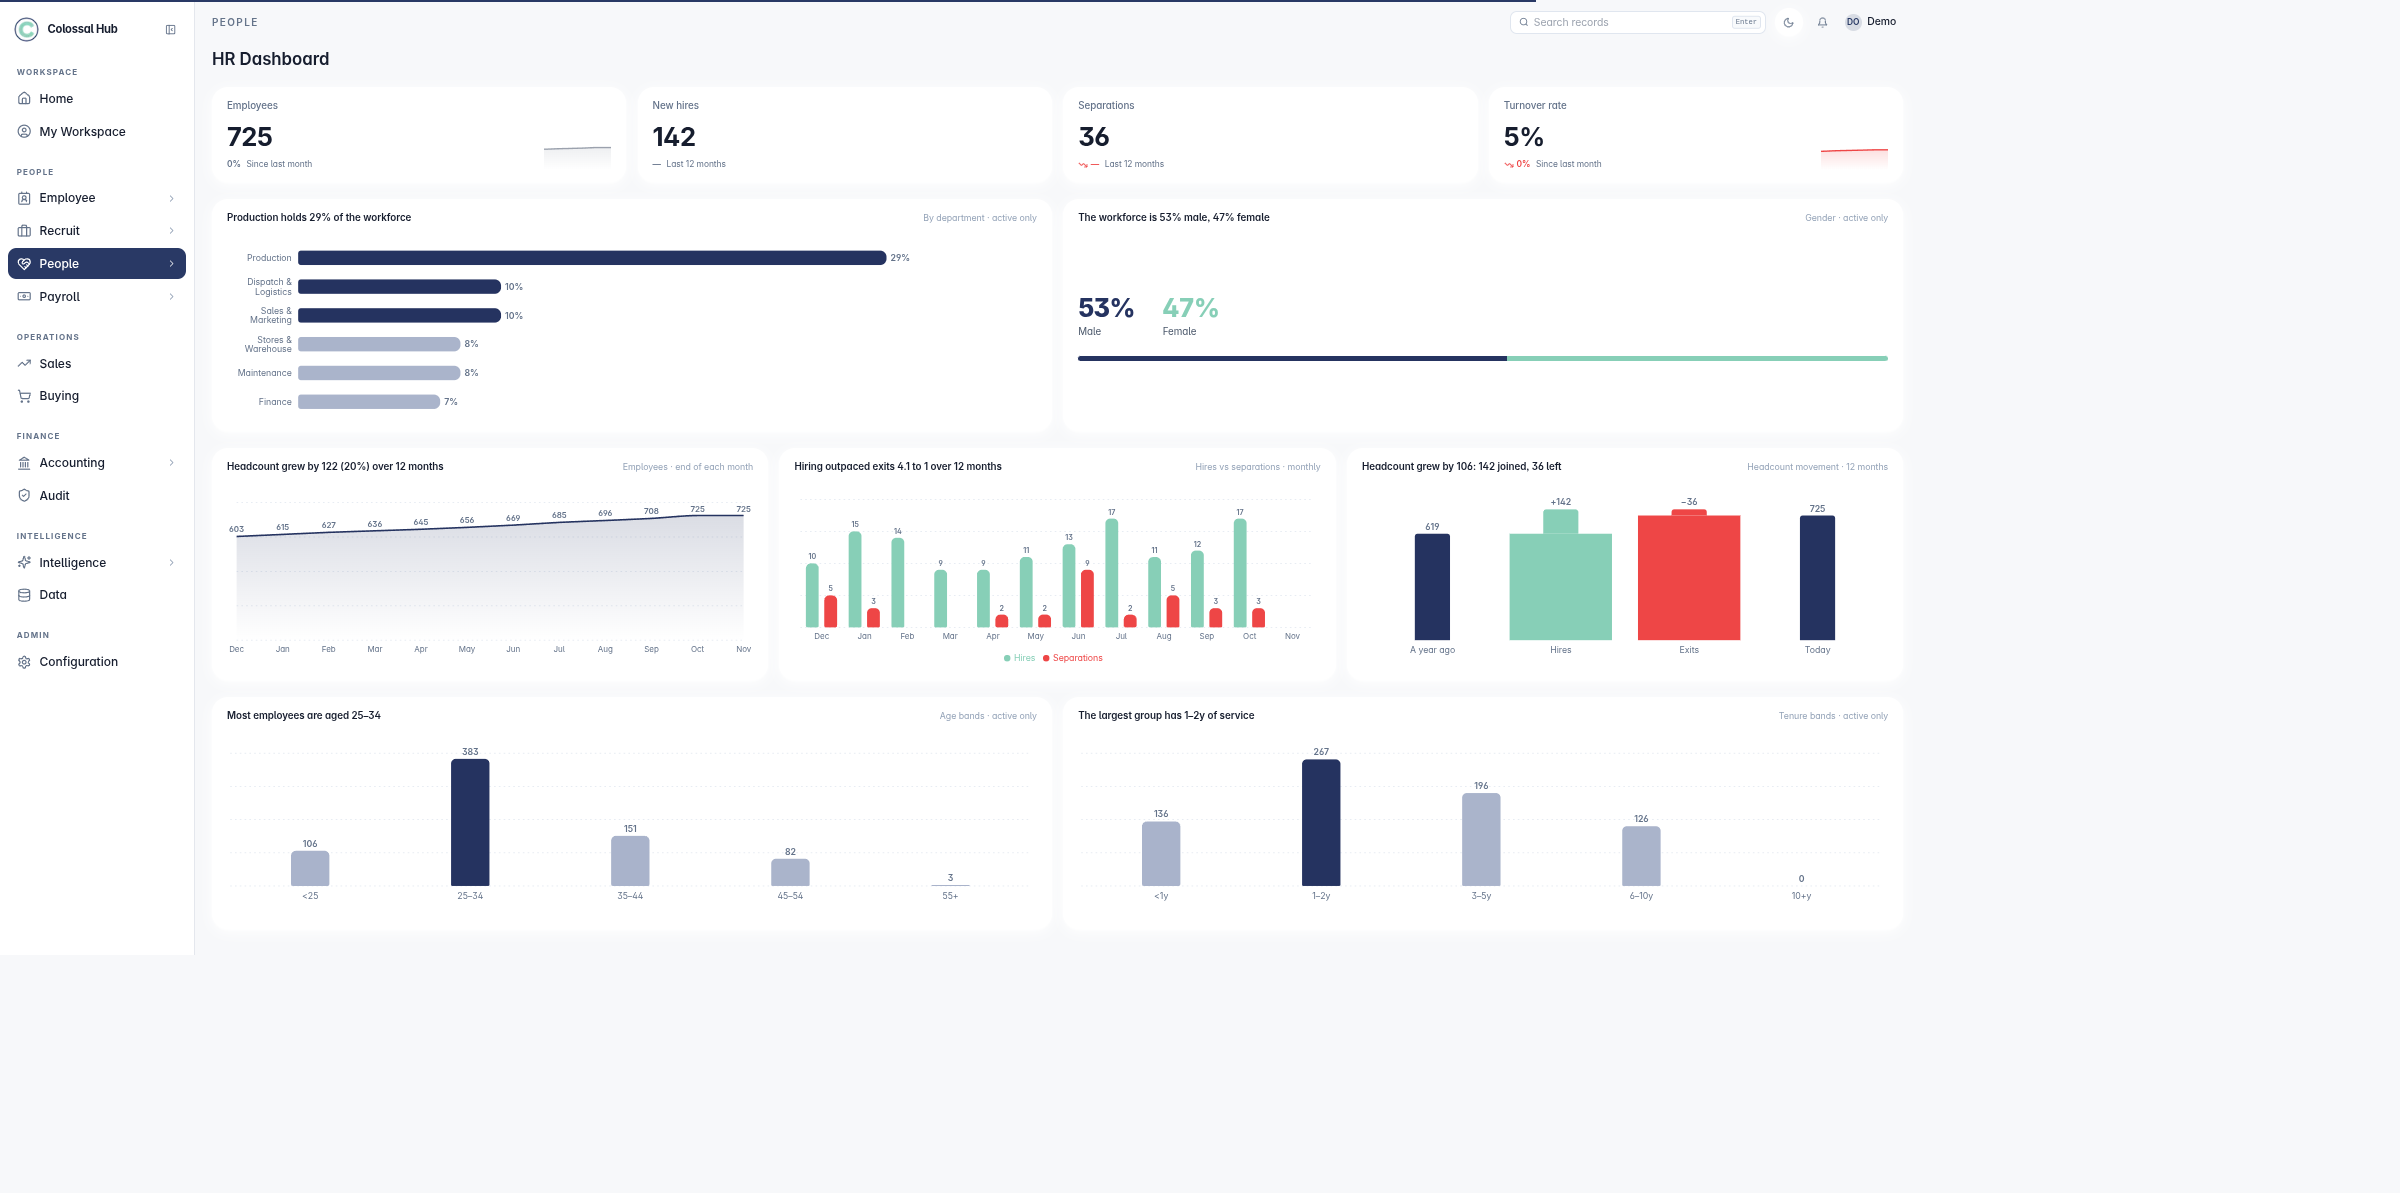
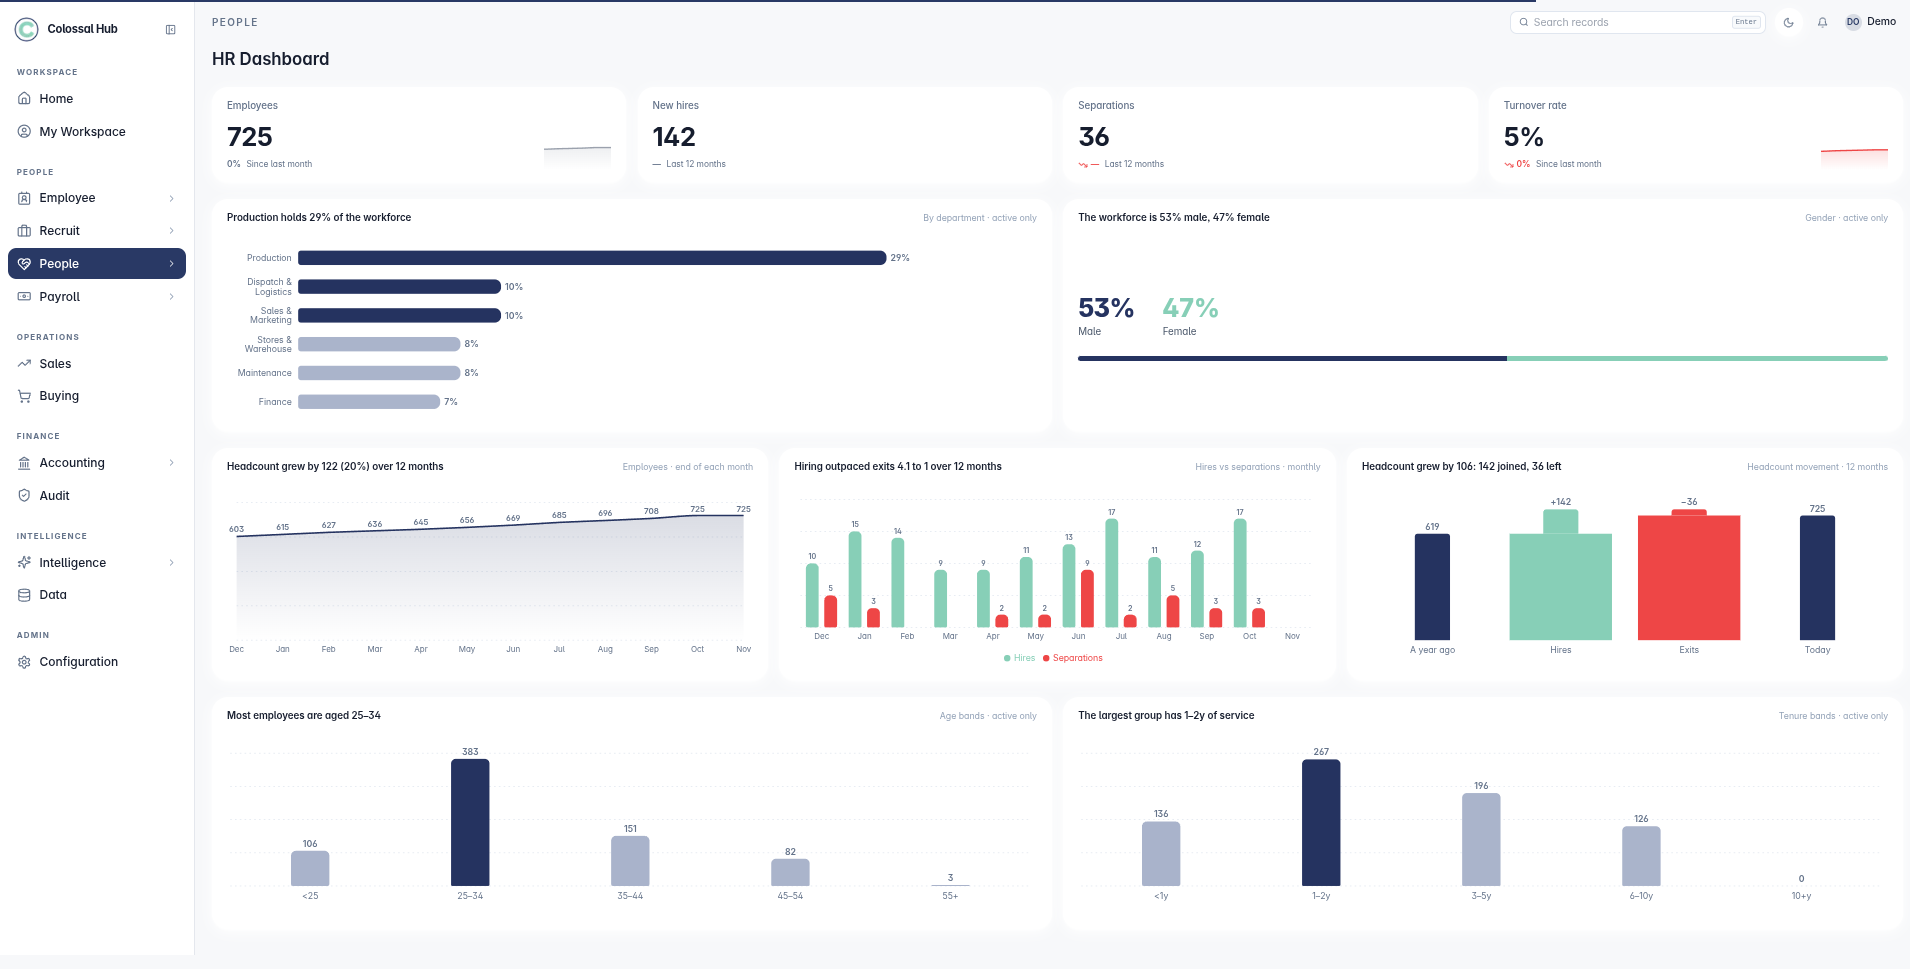
Frames fill edge to edge; slideshow always moves; real WhatsApp thread
The People and Payroll dashboard shots carried the app page's own
white margin, so the hero tile looked half-empty on those frames —
cropped to the content. The payslip shot is cropped to the document
itself. The slideshow now auto-advances for everyone (hover still
pauses, dots still jump). The drawn Intelligence conversation and the
hero's receipt thread are replaced by the real employees-by-grade
WhatsApp thread, chart included, with WhatsApp's own chrome trimmed
so the phone frame provides it.

diff --git a/src/app/page.tsx b/src/app/page.tsx
@@ -344,27 +344,13 @@ export default function Home() {
           <Reveal className="order-2 lg:order-1">
             <Phone
               subtitle="Intelligence"
-              caption="Illustration. Figures are for a sample business."
-              messages={[
-                { from: "me", time: "18:40", text: "What did overtime cost us last month, by department?" },
-                {
-                  from: "them",
-                  time: "18:40",
-                  text: (
-                    <>
-                      US$6,240 in September.
-                      <br />
-                      Production 3,910, Dispatch 1,480, Maintenance 850.
-                    </>
-                  ),
-                },
-                { from: "me", time: "18:42", text: "What does next month look like if the order lands?" },
-                {
-                  from: "them",
-                  time: "18:42",
-                  text: "You'd need about 900 extra overtime hours in Production, roughly US$4,100 on top of a normal month.",
-                },
-              ]}
+              caption="A real thread from the live system."
+              image={{
+                src: "/screens/whatsapp-intelligence.png",
+                width: 527,
+                height: 934,
+                alt: "A real WhatsApp thread: asked about employees by grade, Colossal Hub lists the headcount in each grade, explains that grades 2 to 4 hold about 45% of the workforce, flags an unpopulated pay-grade field, and sends a bar chart.",
+              }}
             />
           </Reveal>
           <Reveal className="order-1 lg:order-2" delay={100}>

diff --git a/src/app/payroll/page.tsx b/src/app/payroll/page.tsx
@@ -92,8 +92,8 @@ export default function PayrollPage() {
         <Screen
           src="/screens/payroll-dashboard.png"
           alt="The payroll dashboard: net pay against previous months, statutory obligations with their deadlines, and which departments carry the pay bill."
-          width={2400}
-          height={1193}
+          width={1917}
+          height={969}
         />
       </Split>
 
@@ -122,13 +122,15 @@ export default function PayrollPage() {
               { term: "Whoever runs payroll", detail: "Fewer “where is my payslip” and “why is my pay different” questions, because the answer is already in the thread." },
             ]}
           />
-          <Screen
-            src="/screens/payslip.png"
-            alt="A payslip: earnings, PAYE, AIDS levy, NSSA, pension and sector council dues itemised, with net pay shown in US$ and ZiG."
-            width={1920}
-            height={955}
-            caption="The payslip behind the message: every earning and deduction itemised, in both currencies."
-          />
+          <div className="max-w-md">
+            <Screen
+              src="/screens/payslip.png"
+              alt="A payslip: earnings, PAYE, AIDS levy, NSSA, pension and sector council dues itemised, with net pay shown in US$ and ZiG."
+              width={770}
+              height={805}
+              caption="The payslip behind the message: every earning and deduction itemised, in both currencies."
+            />
+          </div>
         </div>
       </Split>
 

diff --git a/src/components/DashboardSlideshow.tsx b/src/components/DashboardSlideshow.tsx
@@ -14,9 +14,8 @@ const INTERVAL_MS = 5000;
 /**
  * Crossfading slideshow of real product screens inside a browser frame.
  * All frames are ~2:1 screenshots, so one fixed aspect-ratio box holds
- * them without layout shift. Auto-advances every 5s; pauses while the
- * pointer is over it; never auto-advances for reduced-motion visitors,
- * who page through with the dots instead.
+ * them without layout shift. Auto-advances every 5s and pauses while
+ * the pointer is over it; the dots jump straight to a frame.
  */
 export default function DashboardSlideshow({ frames }: { frames: SlideshowFrame[] }) {
   const [index, setIndex] = useState(0);
@@ -24,7 +23,6 @@ export default function DashboardSlideshow({ frames }: { frames: SlideshowFrame[
 
   useEffect(() => {
     if (paused || frames.length < 2) return;
-    if (window.matchMedia("(prefers-reduced-motion: reduce)").matches) return;
     const t = setInterval(() => setIndex((i) => (i + 1) % frames.length), INTERVAL_MS);
     return () => clearInterval(t);
   }, [paused, frames.length]);

diff --git a/src/components/DashboardMock.tsx b/src/components/DashboardMock.tsx
@@ -50,10 +50,10 @@ export default function DashboardMock() {
         <Phone
           subtitle="business account"
           image={{
-            src: "/screens/whatsapp-receipt.png",
-            width: 266,
-            height: 242,
-            alt: "A real WhatsApp thread: Colossal Hub has read a photographed receipt and asks whether to post it as a supplier invoice or an expense claim.",
+            src: "/screens/whatsapp-intelligence-chart.png",
+            width: 527,
+            height: 615,
+            alt: "A real WhatsApp thread: asked about employees by grade, Colossal Hub explains that grades 2 to 4 hold about 45% of the workforce and sends a bar chart.",
           }}
         />
       </div>

diff --git a/src/app/hr/page.tsx b/src/app/hr/page.tsx
@@ -116,8 +116,8 @@ export default function HrPage() {
         <Screen
           src="/screens/hr-dashboard.png"
           alt="The HR dashboard: 725 employees, headcount growth over 12 months, hiring against exits, department sizes, age bands and length of service."
-          width={2400}
-          height={1193}
+          width={1910}
+          height={969}
         />
       </Split>
 
